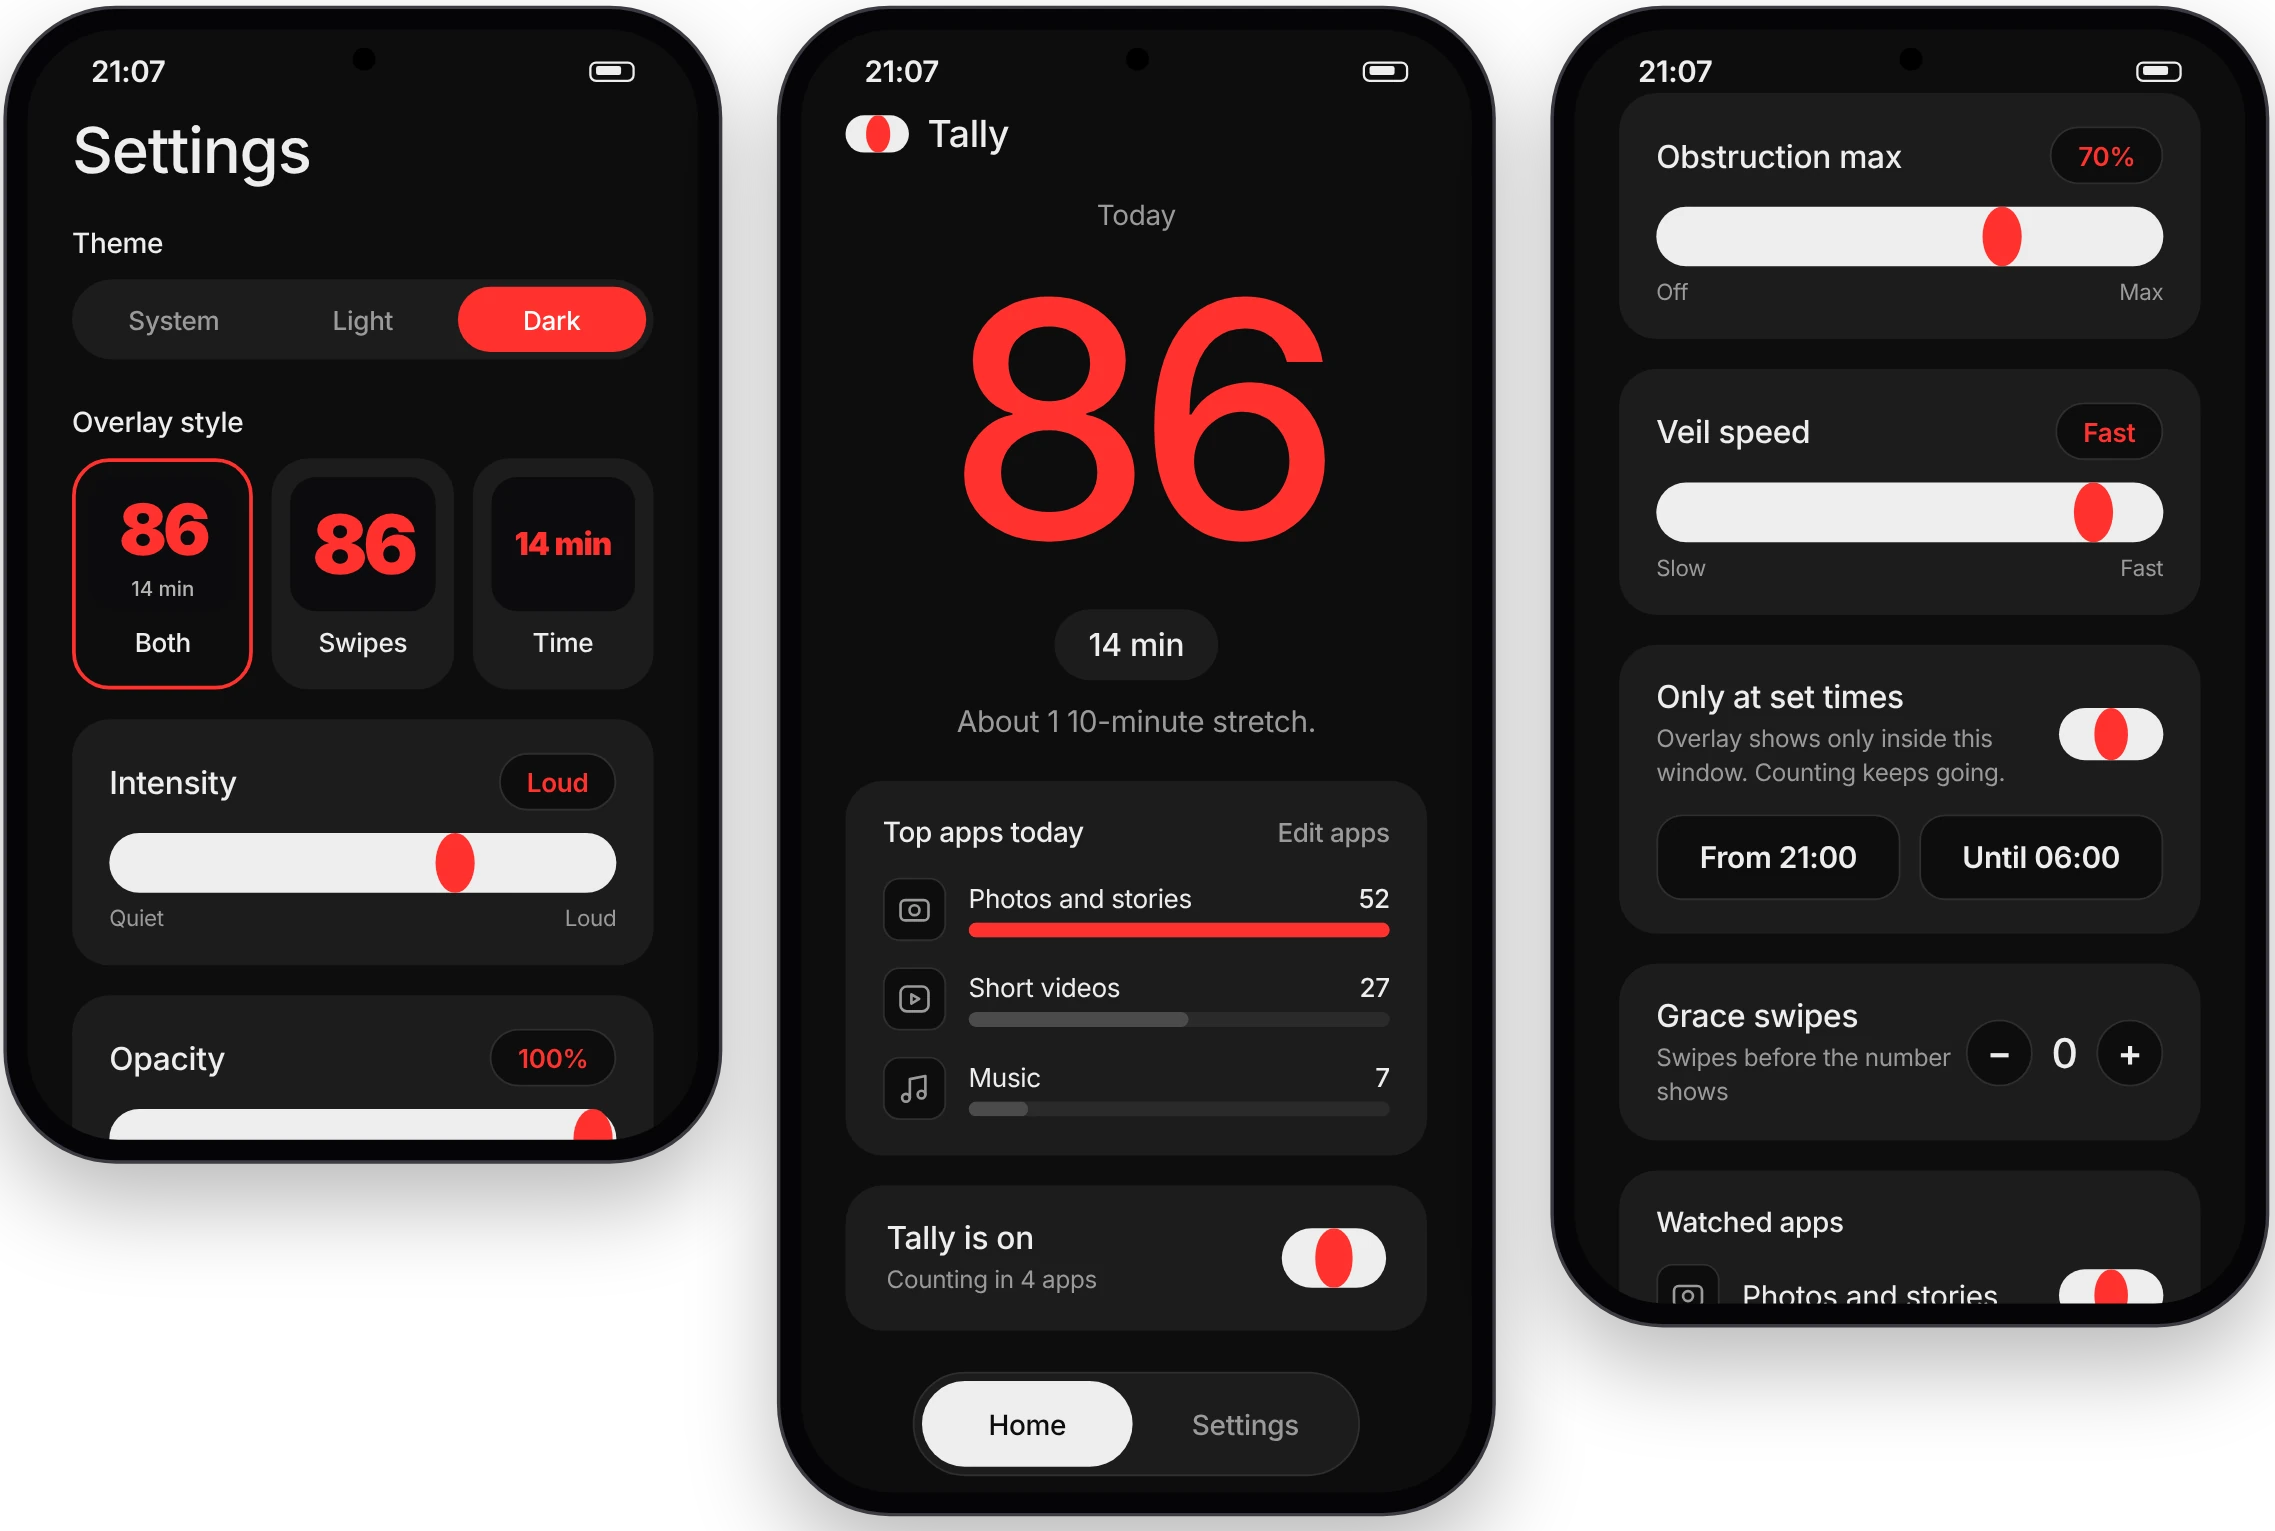
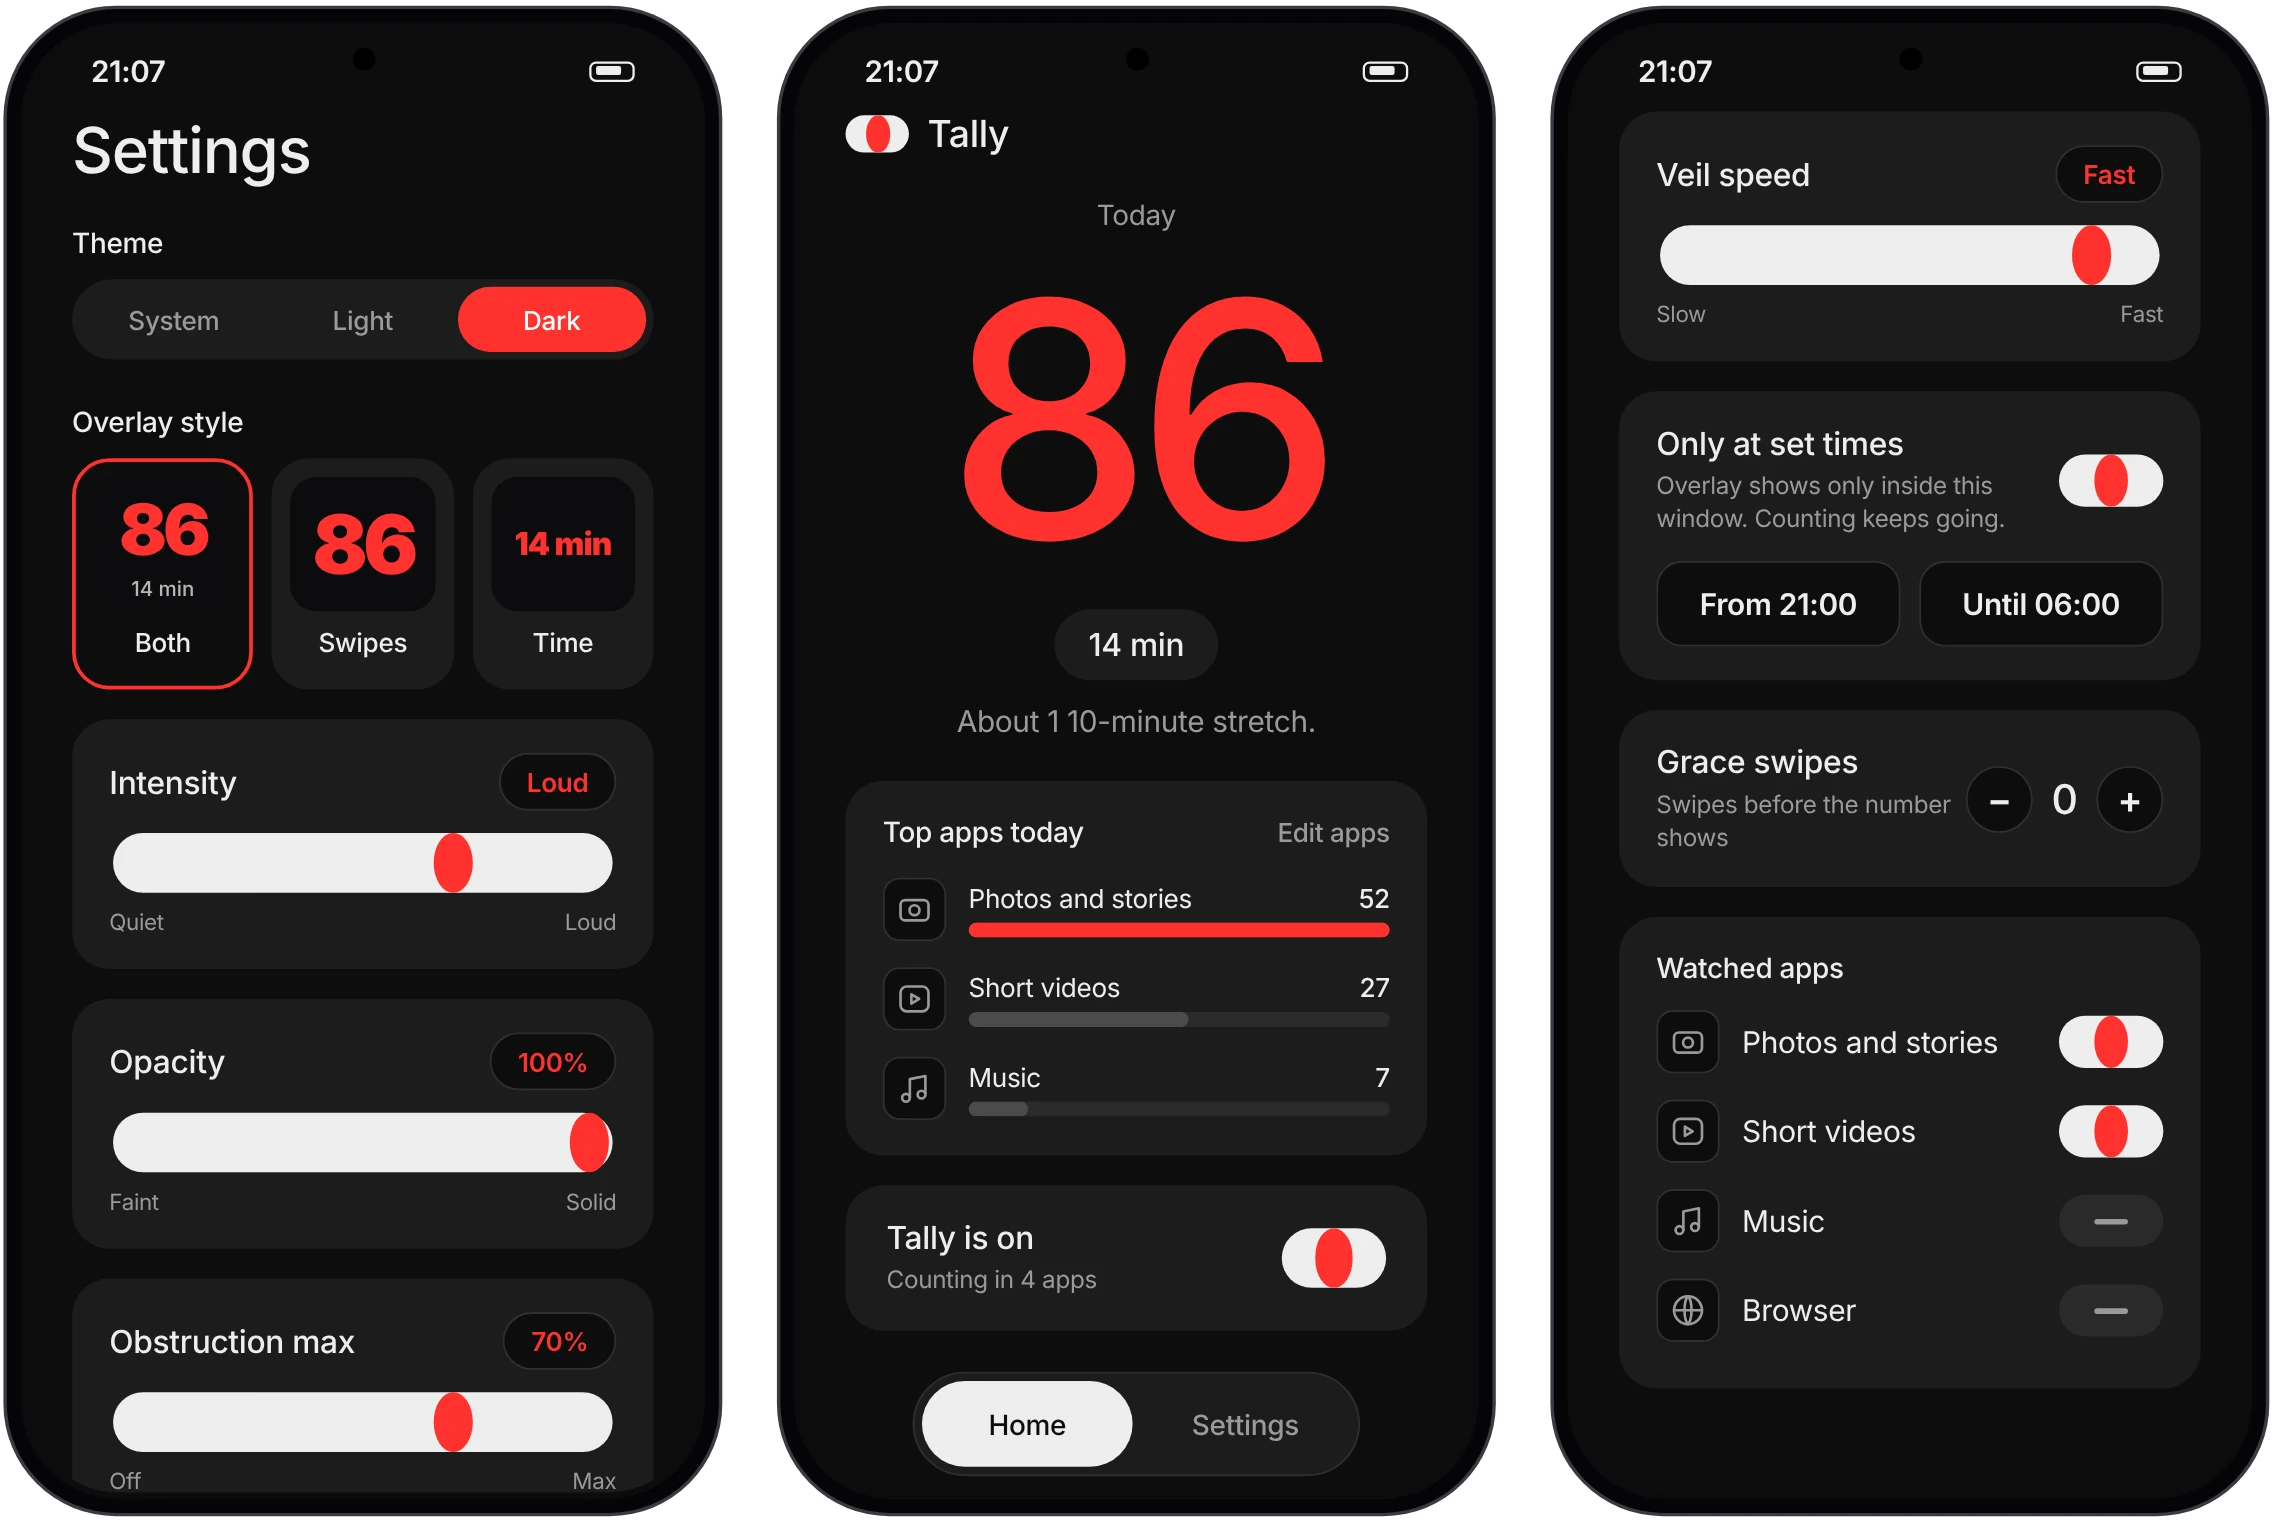
Phone screenshots: no panels, three equal phones, light screens on dark and dark on light
Claude-Session: https://claude.ai/code/session_01QRYSTgQJgMDiTSgzP9roCd

diff --git a/index.html b/index.html
@@ -104,7 +104,7 @@
         <p>The default shows swipes with the minutes small under them. You can switch to swipes only, or to time only. Time counts only while one of your apps is in front, and after a short break the count starts again. The exact steps and timing may change before release.</p>
       </div>
       <figure class="gal-media">
-        <img src="images/number.webp" alt="Three phones showing the Tally number at 12, 48 and 120 swipes, growing and changing from white to amber to red" width="2275" height="1443" loading="lazy">
+        <picture><source media="(prefers-color-scheme: dark)" srcset="images/number-for-dark.webp" type="image/webp"><img src="images/number.webp" alt="Three phones showing the Tally number at 12, 48 and 120 swipes, growing and changing from white to amber to red" width="2275" height="1442" loading="lazy"></picture>
         <figcaption class="cap">12, 48 and 120 swipes.</figcaption>
       </figure>
     </section>
@@ -116,7 +116,7 @@
         <p>It does not block touches. They pass through to the app underneath, so there is no trap and no button to find. It draws only over the apps you picked, and it never touches system screens or calls.</p>
       </div>
       <figure class="gal-media">
-        <img src="images/veil.webp" alt="Three phones showing the veil at 20, 60 and 150 swipes, closing in from the edges" width="2276" height="1443" loading="lazy">
+        <picture><source media="(prefers-color-scheme: dark)" srcset="images/veil-for-dark.webp" type="image/webp"><img src="images/veil.webp" alt="Three phones showing the veil at 20, 60 and 150 swipes, closing in from the edges" width="2275" height="1442" loading="lazy"></picture>
         <figcaption class="cap">20, 60 and 150 swipes.</figcaption>
       </figure>
     </section>
@@ -166,7 +166,7 @@
         <p>To count swipes in other apps, Tally uses Android's accessibility service, and it draws the number over them. Android asks you to turn this on yourself. Tally reads no text, messages or posts. It counts scroll events and the time an app is in front.</p>
       </div>
       <figure class="gal-media">
-        <img src="images/apps.webp" alt="Tally home screen and two Settings screens: theme, overlay style, intensity, opacity, obstruction max, veil speed, set times, grace swipes and watched apps" width="2275" height="1531" loading="lazy">
+        <picture><source media="(prefers-color-scheme: dark)" srcset="images/apps-for-dark.webp" type="image/webp"><img src="images/apps.webp" alt="Tally home screen and two Settings screens: theme, overlay style, intensity, opacity, obstruction max, veil speed, set times, grace swipes and watched apps" width="2275" height="1531" loading="lazy"></picture>
         <figcaption class="cap">Home, and Settings. Drawn from the app design, not photos of a phone.</figcaption>
       </figure>
     </section>

diff --git a/styles.css b/styles.css
@@ -131,7 +131,7 @@ h1 { font-size: clamp(2.75rem, 7vw, 5.5rem); font-weight: 400; letter-spacing: -
 .gal-media { grid-column: 2; grid-row: 1 / span 2; margin: 0; max-width: 480px; width: 100%; justify-self: end; }
 #veil .gal-media { justify-self: start; }
 #veil .gal-media { grid-column: 1; }
-.gal-media img { display: block; width: 100%; height: auto; padding: clamp(16px, 2.5vw, 32px); background: var(--surface); border-radius: 24px; }
+.gal-media img { display: block; width: 100%; height: auto; }
 .cap { margin-top: 12px; font-size: .875rem; color: var(--muted); }
 .widgets-grid { display: grid; grid-template-columns: minmax(0, 1fr) minmax(0, 1fr); grid-template-rows: auto 1fr; column-gap: clamp(32px, 6vw, 96px); row-gap: 20px; align-items: start; }
 .widgets-copy { grid-column: 1; grid-row: 2; }

diff --git a/README.md b/README.md
@@ -8,7 +8,7 @@ Live at https://jergusino.github.io/tally/ (GitHub Pages, branch `main`, folder 
 
 - `index.html`, `styles.css`, `script.js` (forms, nav), `demo.js` (the demo phone): one page with sections #number, #veil, #widgets and #settings. The nav scrolls smoothly to them. No build step.
 - `fonts/inter-latin-var.woff2`: Inter (variable), self-hosted, Latin only.
-- `images/number.webp`, `veil.webp`, `apps.webp`: graphics of the app screens, drawn from the UI (not photos of a phone). `apps.webp` shows the current Home and Settings.
+- `images/number.webp`, `veil.webp`, `apps.webp`: graphics of the app screens, drawn from the UI (not photos of a phone). `apps.webp` shows the current Home and Settings. Each has a `-for-dark.webp` twin (light screens, silver frames) that the page swaps in under `prefers-color-scheme: dark`, so the phones stand out on either page colour.
 - `images/logo.svg`: eye and wordmark from the Tally logo. `images/favicon.png`: tab icon.
 
 ## What is on the page
